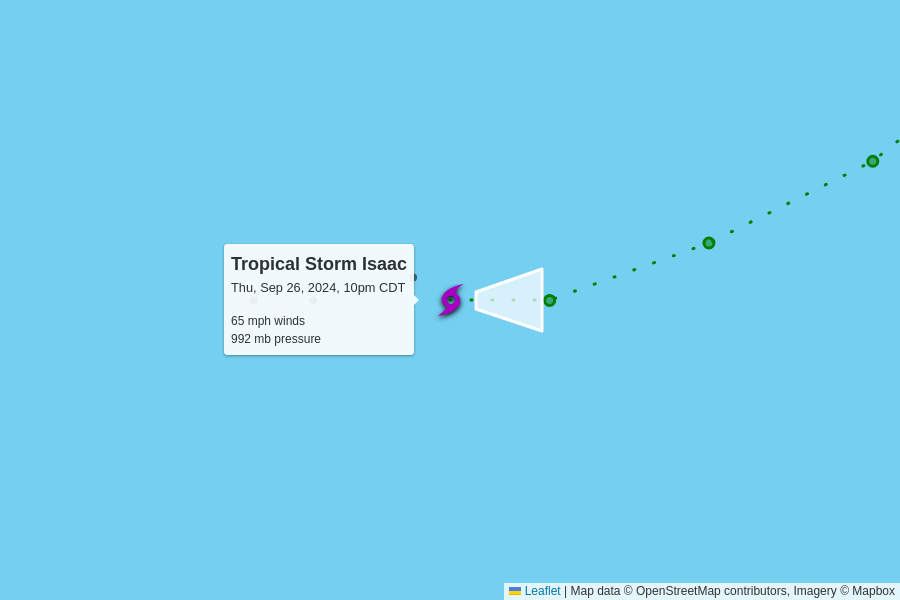
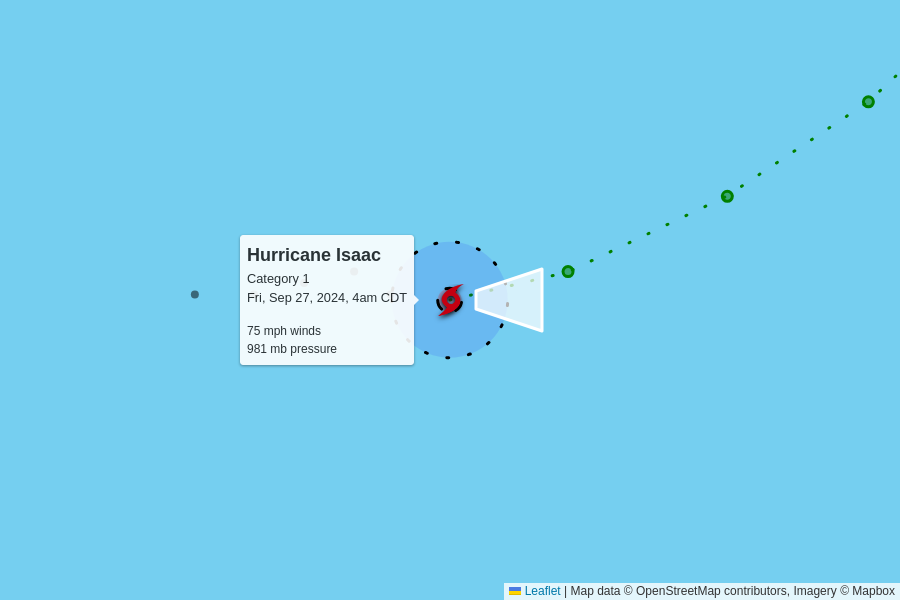
automatic update

diff --git a/docs/index.html b/docs/index.html
@@ -101,10 +101,10 @@
 
     <table>
       <tr>
-        <td colspan="6" class="storm category-1" >
+        <td colspan="6" class="storm category-0" >
           <h2>
-            Hurricane Helene - Category 1
-            <p class="updated">last updated <span data-time>2024-09-27T08:00:00.000Z</span></p>
+            Tropical Storm Helene
+            <p class="updated">last updated <span data-time>2024-09-27T09:00:00.000Z</span></p>
           </h2>
         </td>
       </tr>
@@ -119,12 +119,12 @@
       </tr>
       <tr>
         <td class="spacer"></td>
-        <td>75 mph<br>-5 mph since last update</td>
-        <td>963 mb<br>+3 mb since last update</td>
+        <td>70 mph<br>-5 mph since last update</td>
+        <td>968 mb<br>+5 mb since last update</td>
         <td>
           30 mph to the north
           <br/>
-          <span style="display: inline-block; font-size: 1.5em; transform: rotate(10deg);">↑</span>
+          <span style="display: inline-block; font-size: 1.5em; transform: rotate(360deg);">↑</span>
         </td>
         <td><a href="https://raw.githubusercontent.com/mgwalker/atlantic-hurricanes/main/data/csv/AL092024.csv">AL092024.csv</a></td>
         <td><a href="https://www.nhc.noaa.gov/archive/2024/HELENE.shtml?">NHC advisories</a></td>
@@ -145,10 +145,10 @@
       
 
       <tr>
-        <td colspan="6" class="storm category-0" >
+        <td colspan="6" class="storm category-1" >
           <h2>
-            Tropical Storm Isaac
-            <p class="updated">last updated <span data-time>2024-09-27T03:00:00.000Z</span></p>
+            Hurricane Isaac - Category 1
+            <p class="updated">last updated <span data-time>2024-09-27T09:00:00.000Z</span></p>
           </h2>
         </td>
       </tr>
@@ -163,8 +163,8 @@
       </tr>
       <tr>
         <td class="spacer"></td>
-        <td>65 mph<br>+15 mph since last update</td>
-        <td>992 mb<br>-3 mb since last update</td>
+        <td>75 mph<br>+10 mph since last update</td>
+        <td>981 mb<br>-11 mb since last update</td>
         <td>
           12 mph to the east
           <br/>
